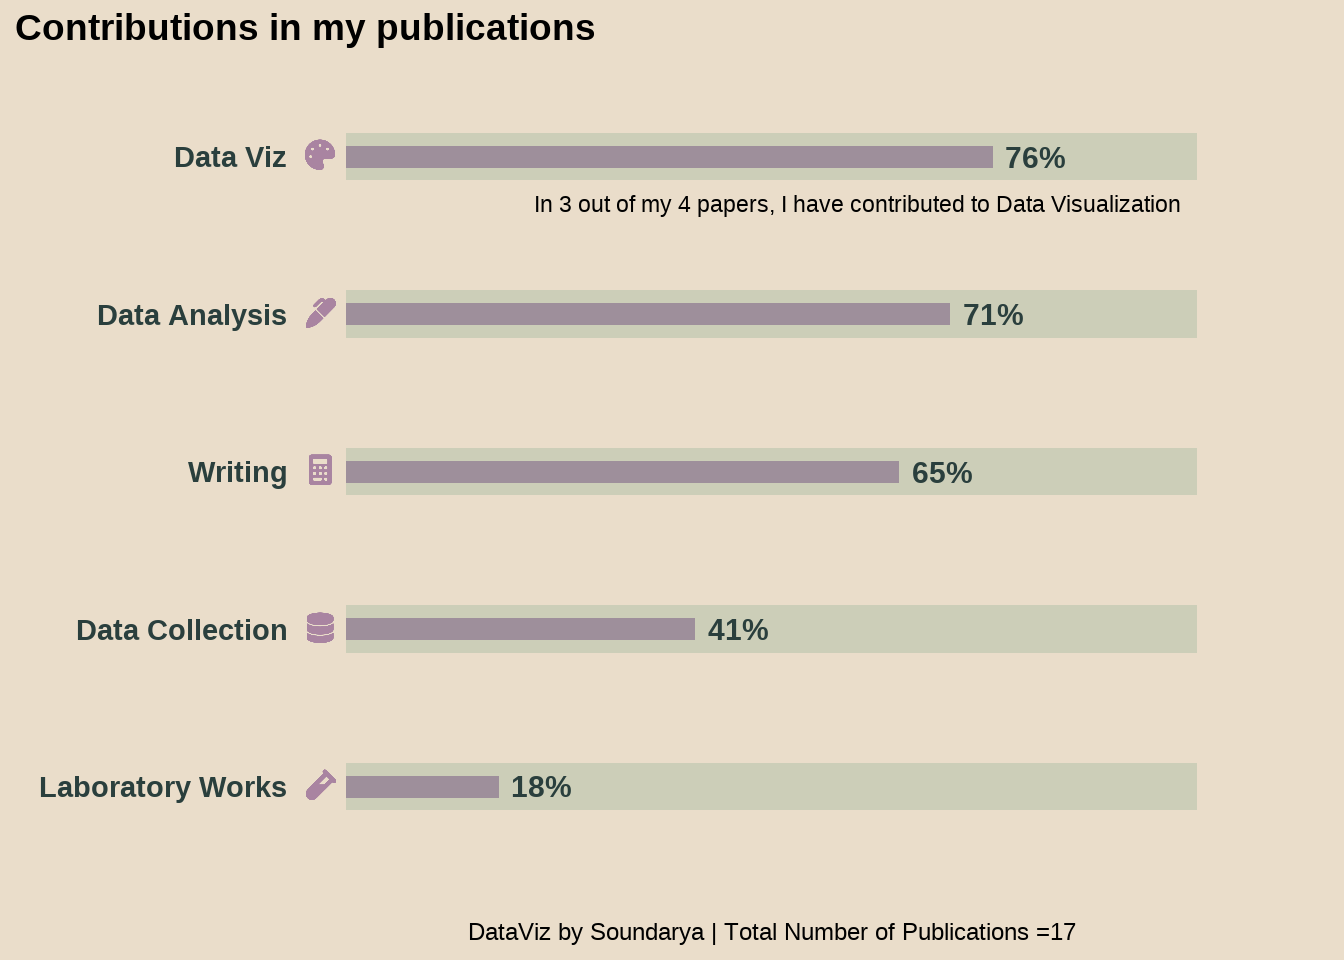
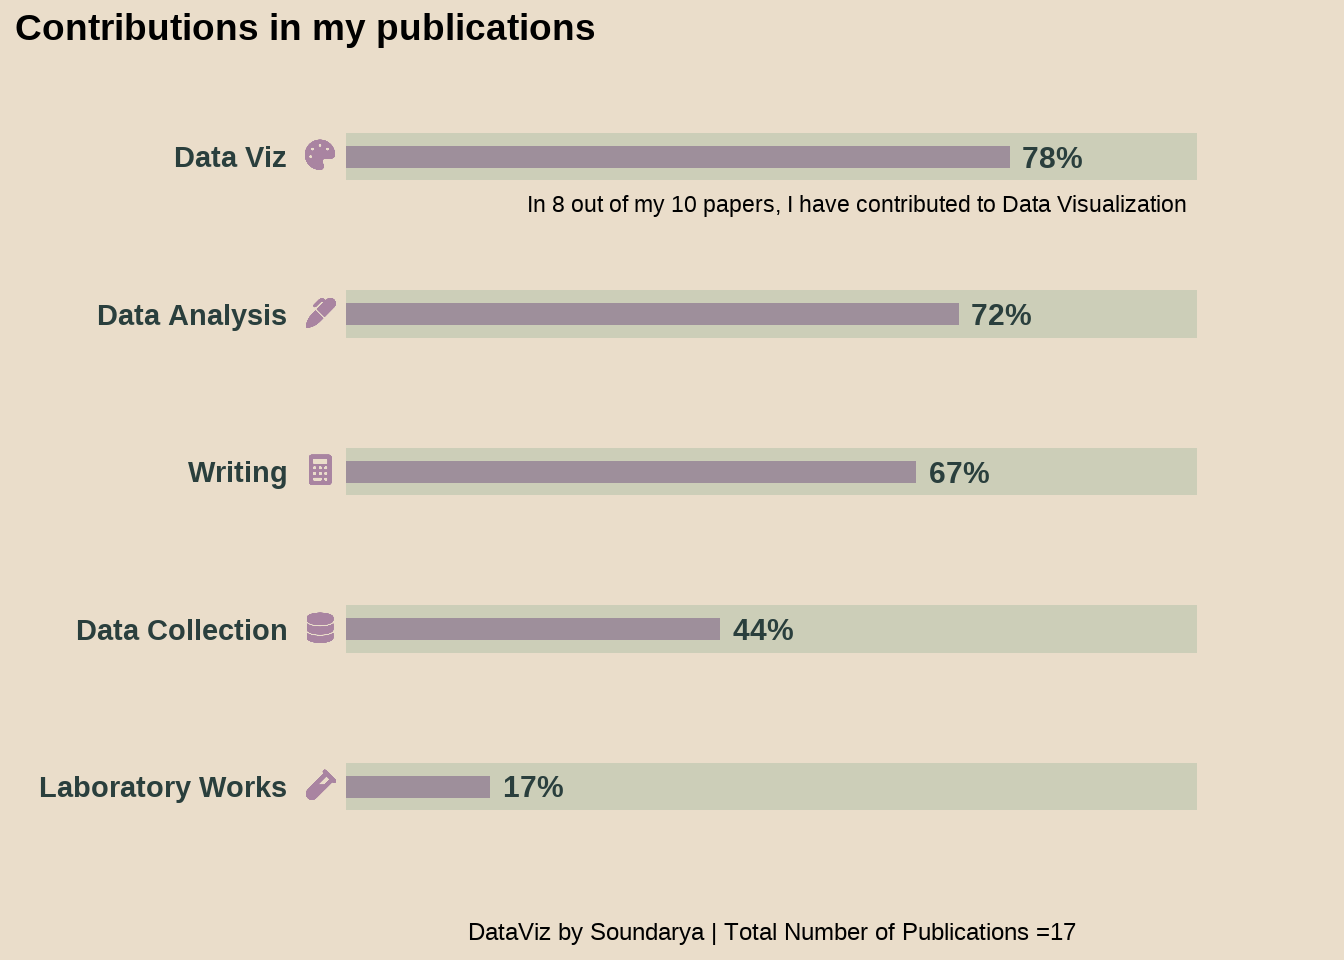
added oxistress preprint

diff --git a/_site/publications.html b/_site/publications.html
@@ -201,6 +201,28 @@ div.csl-indent {
 <svg aria-hidden="true" role="img" viewbox="0 0 512 512" style="height:1em;width:1em;vertical-align:-0.125em;margin-left:auto;margin-right:auto;font-size:inherit;fill:#a984a1;overflow:visible;position:relative;"><path d="M481 31C445.1-4.8 386.9-4.8 351 31l-15 15L322.9 33C294.8 4.9 249.2 4.9 221.1 33L135 119c-9.4 9.4-9.4 24.6 0 33.9s24.6 9.4 33.9 0L255 66.9c9.4-9.4 24.6-9.4 33.9 0L302.1 80 186.3 195.7 316.3 325.7 481 161c35.9-35.9 35.9-94.1 0-129.9zM293.7 348.3L163.7 218.3 99.5 282.5c-48 48-80.8 109.2-94.1 175.8l-5 25c-1.6 7.9 .9 16 6.6 21.7s13.8 8.1 21.7 6.6l25-5c66.6-13.3 127.8-46.1 175.8-94.1l64.2-64.2z"></path></svg>
 </div>
 </div>
+</div></div><ol start="18" type="1">
+<li>Obesity, Oxidative Stress, and the Moderating Role of Overcommitment: An Exploratory Analysis in Female Nurses from Western India. https://doi.org/10.31219/osf.io/2uhkf <span class="citation" data-cites="singh2024">(<a href="#ref-singh2024" role="doc-biblioref">Singh et al. 2024</a>)</span></li>
+</ol>
+<div>
+
+</div>
+
+<div class="no-row-height column-margin column-container"><div class="cell quarto-layout-panel" data-layout-nrow="1">
+<div class="quarto-layout-row">
+<div class="quarto-layout-cell" style="flex-basis: 25.0%;justify-content: flex-start;">
+<svg aria-hidden="true" role="img" viewbox="0 0 448 512" style="height:1em;width:0.88em;vertical-align:-0.125em;margin-left:auto;margin-right:auto;font-size:inherit;fill:#a984a1;overflow:visible;position:relative;"><path d="M448 80v48c0 44.2-100.3 80-224 80S0 172.2 0 128V80C0 35.8 100.3 0 224 0S448 35.8 448 80zM393.2 214.7c20.8-7.4 39.9-16.9 54.8-28.6V288c0 44.2-100.3 80-224 80S0 332.2 0 288V186.1c14.9 11.8 34 21.2 54.8 28.6C99.7 230.7 159.5 240 224 240s124.3-9.3 169.2-25.3zM0 346.1c14.9 11.8 34 21.2 54.8 28.6C99.7 390.7 159.5 400 224 400s124.3-9.3 169.2-25.3c20.8-7.4 39.9-16.9 54.8-28.6V432c0 44.2-100.3 80-224 80S0 476.2 0 432V346.1z"></path></svg>
+</div>
+<div class="quarto-layout-cell" style="flex-basis: 25.0%;justify-content: flex-start;">
+<svg aria-hidden="true" role="img" viewbox="0 0 384 512" style="height:1em;width:0.75em;vertical-align:-0.125em;margin-left:auto;margin-right:auto;font-size:inherit;fill:#a984a1;overflow:visible;position:relative;"><path d="M64 0C28.7 0 0 28.7 0 64V448c0 35.3 28.7 64 64 64H320c35.3 0 64-28.7 64-64V64c0-35.3-28.7-64-64-64H64zM96 64H288c17.7 0 32 14.3 32 32v32c0 17.7-14.3 32-32 32H96c-17.7 0-32-14.3-32-32V96c0-17.7 14.3-32 32-32zm32 160a32 32 0 1 1 -64 0 32 32 0 1 1 64 0zM96 352a32 32 0 1 1 0-64 32 32 0 1 1 0 64zM64 416c0-17.7 14.3-32 32-32h96c17.7 0 32 14.3 32 32s-14.3 32-32 32H96c-17.7 0-32-14.3-32-32zM192 256a32 32 0 1 1 0-64 32 32 0 1 1 0 64zm32 64a32 32 0 1 1 -64 0 32 32 0 1 1 64 0zm64-64a32 32 0 1 1 0-64 32 32 0 1 1 0 64zm32 64a32 32 0 1 1 -64 0 32 32 0 1 1 64 0zM288 448a32 32 0 1 1 0-64 32 32 0 1 1 0 64z"></path></svg>
+</div>
+<div class="quarto-layout-cell" style="flex-basis: 25.0%;justify-content: flex-start;">
+<svg aria-hidden="true" role="img" viewbox="0 0 512 512" style="height:1em;width:1em;vertical-align:-0.125em;margin-left:auto;margin-right:auto;font-size:inherit;fill:#a984a1;overflow:visible;position:relative;"><path d="M512 256c0 .9 0 1.8 0 2.7c-.4 36.5-33.6 61.3-70.1 61.3H344c-26.5 0-48 21.5-48 48c0 3.4 .4 6.7 1 9.9c2.1 10.2 6.5 20 10.8 29.9c6.1 13.8 12.1 27.5 12.1 42c0 31.8-21.6 60.7-53.4 62c-3.5 .1-7 .2-10.6 .2C114.6 512 0 397.4 0 256S114.6 0 256 0S512 114.6 512 256zM128 288a32 32 0 1 0 -64 0 32 32 0 1 0 64 0zm0-96a32 32 0 1 0 0-64 32 32 0 1 0 0 64zM288 96a32 32 0 1 0 -64 0 32 32 0 1 0 64 0zm96 96a32 32 0 1 0 0-64 32 32 0 1 0 0 64z"></path></svg>
+</div>
+<div class="quarto-layout-cell" style="flex-basis: 25.0%;justify-content: flex-start;">
+<svg aria-hidden="true" role="img" viewbox="0 0 512 512" style="height:1em;width:1em;vertical-align:-0.125em;margin-left:auto;margin-right:auto;font-size:inherit;fill:#a984a1;overflow:visible;position:relative;"><path d="M481 31C445.1-4.8 386.9-4.8 351 31l-15 15L322.9 33C294.8 4.9 249.2 4.9 221.1 33L135 119c-9.4 9.4-9.4 24.6 0 33.9s24.6 9.4 33.9 0L255 66.9c9.4-9.4 24.6-9.4 33.9 0L302.1 80 186.3 195.7 316.3 325.7 481 161c35.9-35.9 35.9-94.1 0-129.9zM293.7 348.3L163.7 218.3 99.5 282.5c-48 48-80.8 109.2-94.1 175.8l-5 25c-1.6 7.9 .9 16 6.6 21.7s13.8 8.1 21.7 6.6l25-5c66.6-13.3 127.8-46.1 175.8-94.1l64.2-64.2z"></path></svg>
+</div>
+</div>
 </div></div><ol start="17" type="1">
 <li>Sleep Quality – A Potential Link in the Relation Between Occupational Stress and Inflammation Available from: https://osf.io/65dnw <span class="citation" data-cites="singh2024sleepqualitypotentiala">(<a href="#ref-singh2024sleepqualitypotentiala" role="doc-biblioref">Singh et al., n.d.</a>)</span></li>
 </ol>
@@ -511,6 +533,9 @@ Klepp, T. D., M. E. Sloan, Soundarya Soundararajan, C. E. Ramsden, R. Cinar, M. 
 </div>
 <div id="ref-mythri2017manganese1methyl4phenylpyridiniuminducedneurotoxicity" class="csl-entry" role="listitem">
 Mythri, Rajeswara Babu, Narayana Reddy Raghunath, Santosh Chandrakant Narwade, Mirazkar Dasharatha Rao Pandareesh, Kollarkandi Rajesh Sabitha, Mohamad Aiyaz, Bipin Chand, et al. 2017. <span>“Manganese- and 1-Methyl-4-Phenylpyridinium-Induced Neurotoxicity Display Differences in Morphological, Electrophysiological and Genome-Wide Alterations: Implications for Idiopathic Parkinson’s Disease.”</span> <em>Journal of Neurochemistry</em> 143 (3): 334–58. <a href="https://doi.org/10.1111/jnc.14147">https://doi.org/10.1111/jnc.14147</a>.
+</div>
+<div id="ref-singh2024" class="csl-entry" role="listitem">
+Singh, Gyanendra, Ankit Viramgami, Bela Makwana, Sukhdev Mishra, Viral Dave, and Soundarya Soundararajan. 2024. <em>Obesity, Oxidative Stress, and the Moderating Role of Overcommitment: An Exploratory Analysis in Female Nurses from Western India</em>. <a href="https://doi.org/10.31219/osf.io/2uhkf">https://doi.org/10.31219/osf.io/2uhkf</a>.
 </div>
 <div id="ref-singh2024sleepqualitypotentiala" class="csl-entry" role="listitem">
 Singh, Gyanendra, Ankit Viramgami, Bela Makwana, Sukhdev Mishra, Tejal Padhariya, Viral Dave, and Soundarya Soundararajan. n.d. <span>“Sleep Quality <span></span> a Potential Link in the Relation Between Occupational Stress and Inflammation.”</span> <a href="https://doi.org/10.31234/osf.io/65dnw">https://doi.org/10.31234/osf.io/65dnw</a>.
